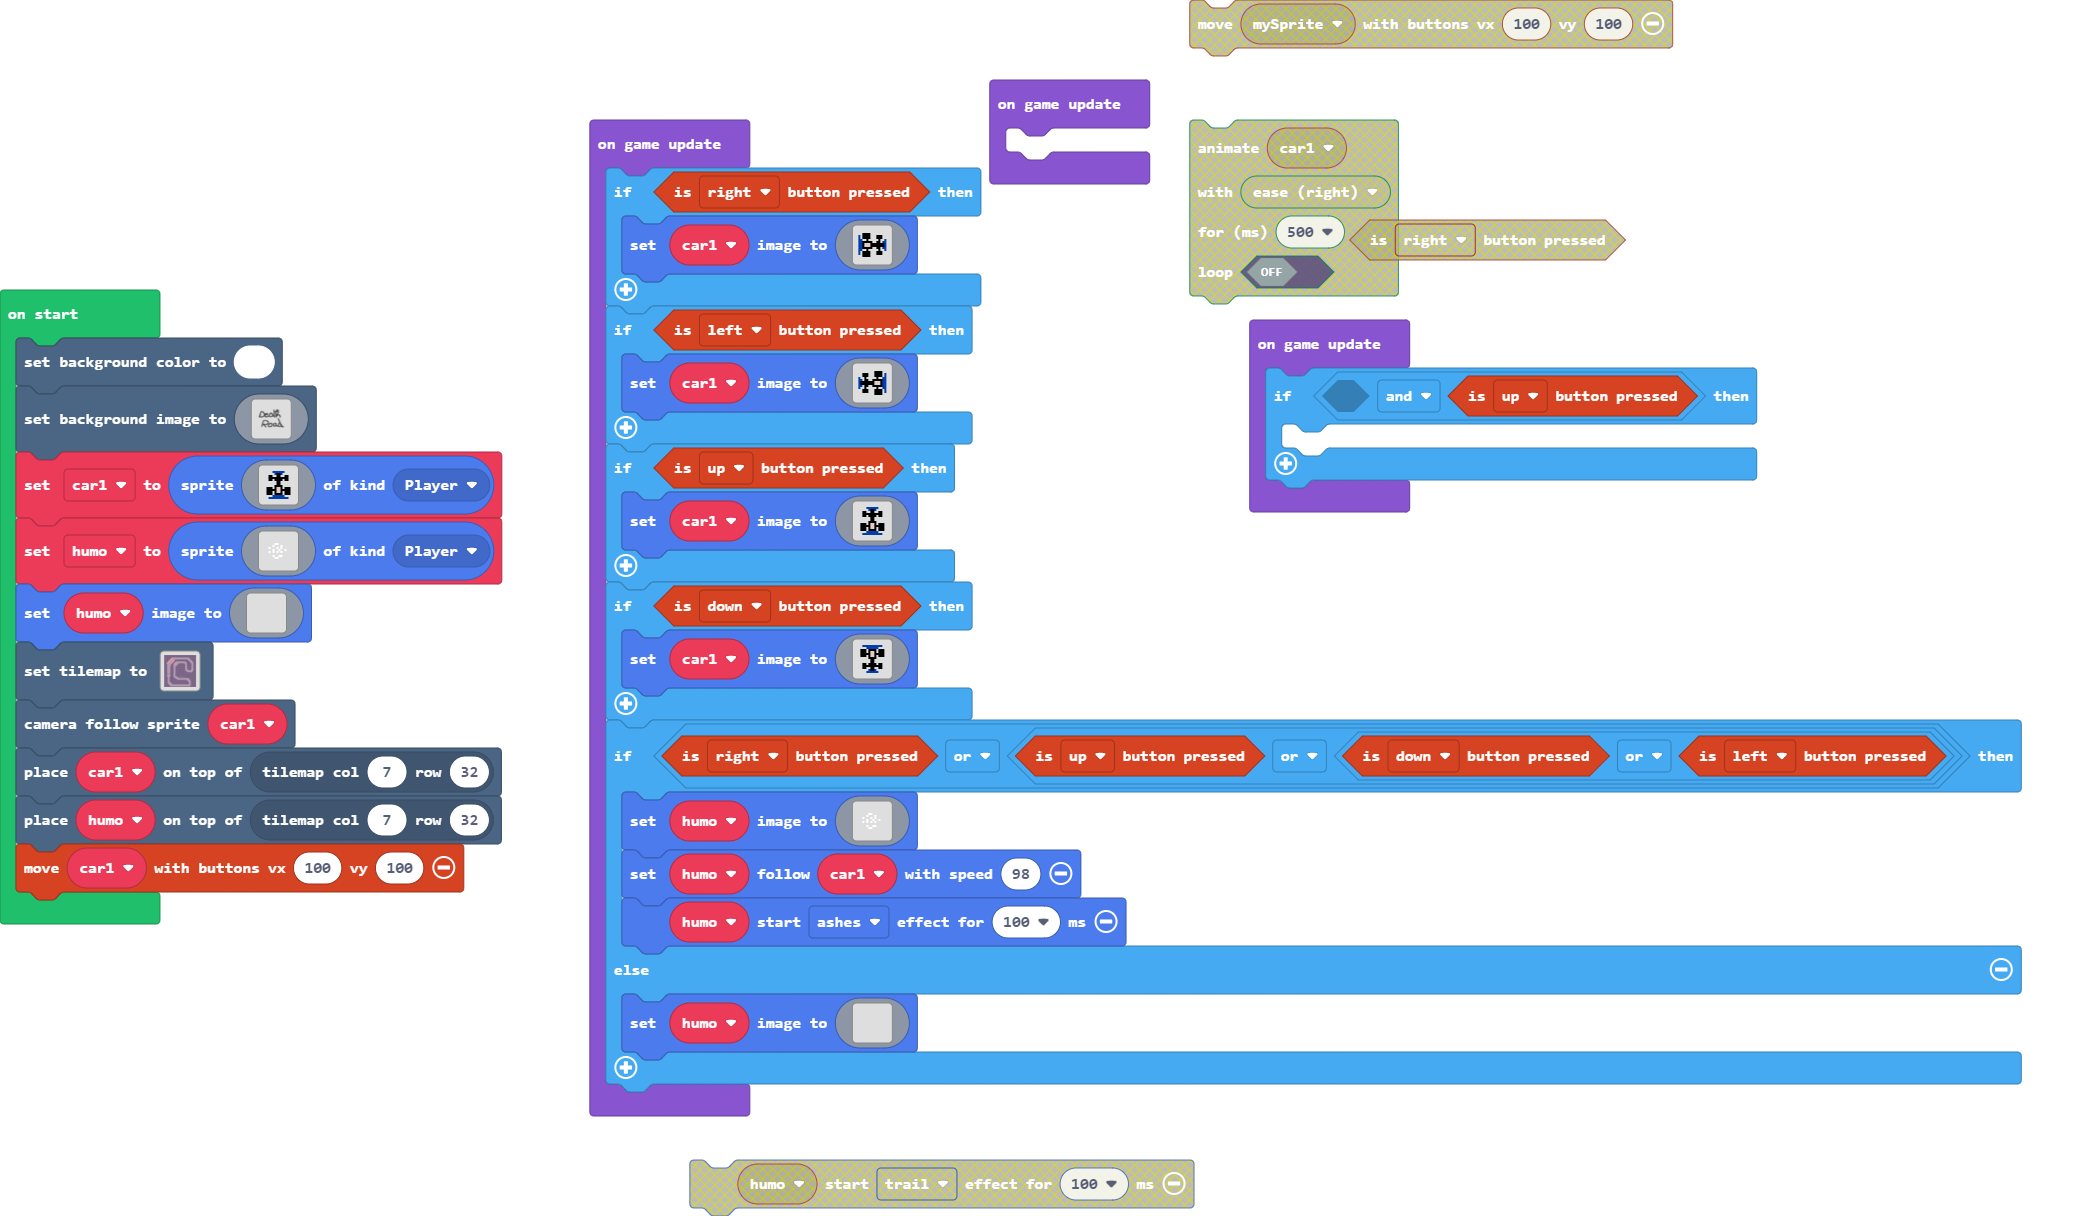
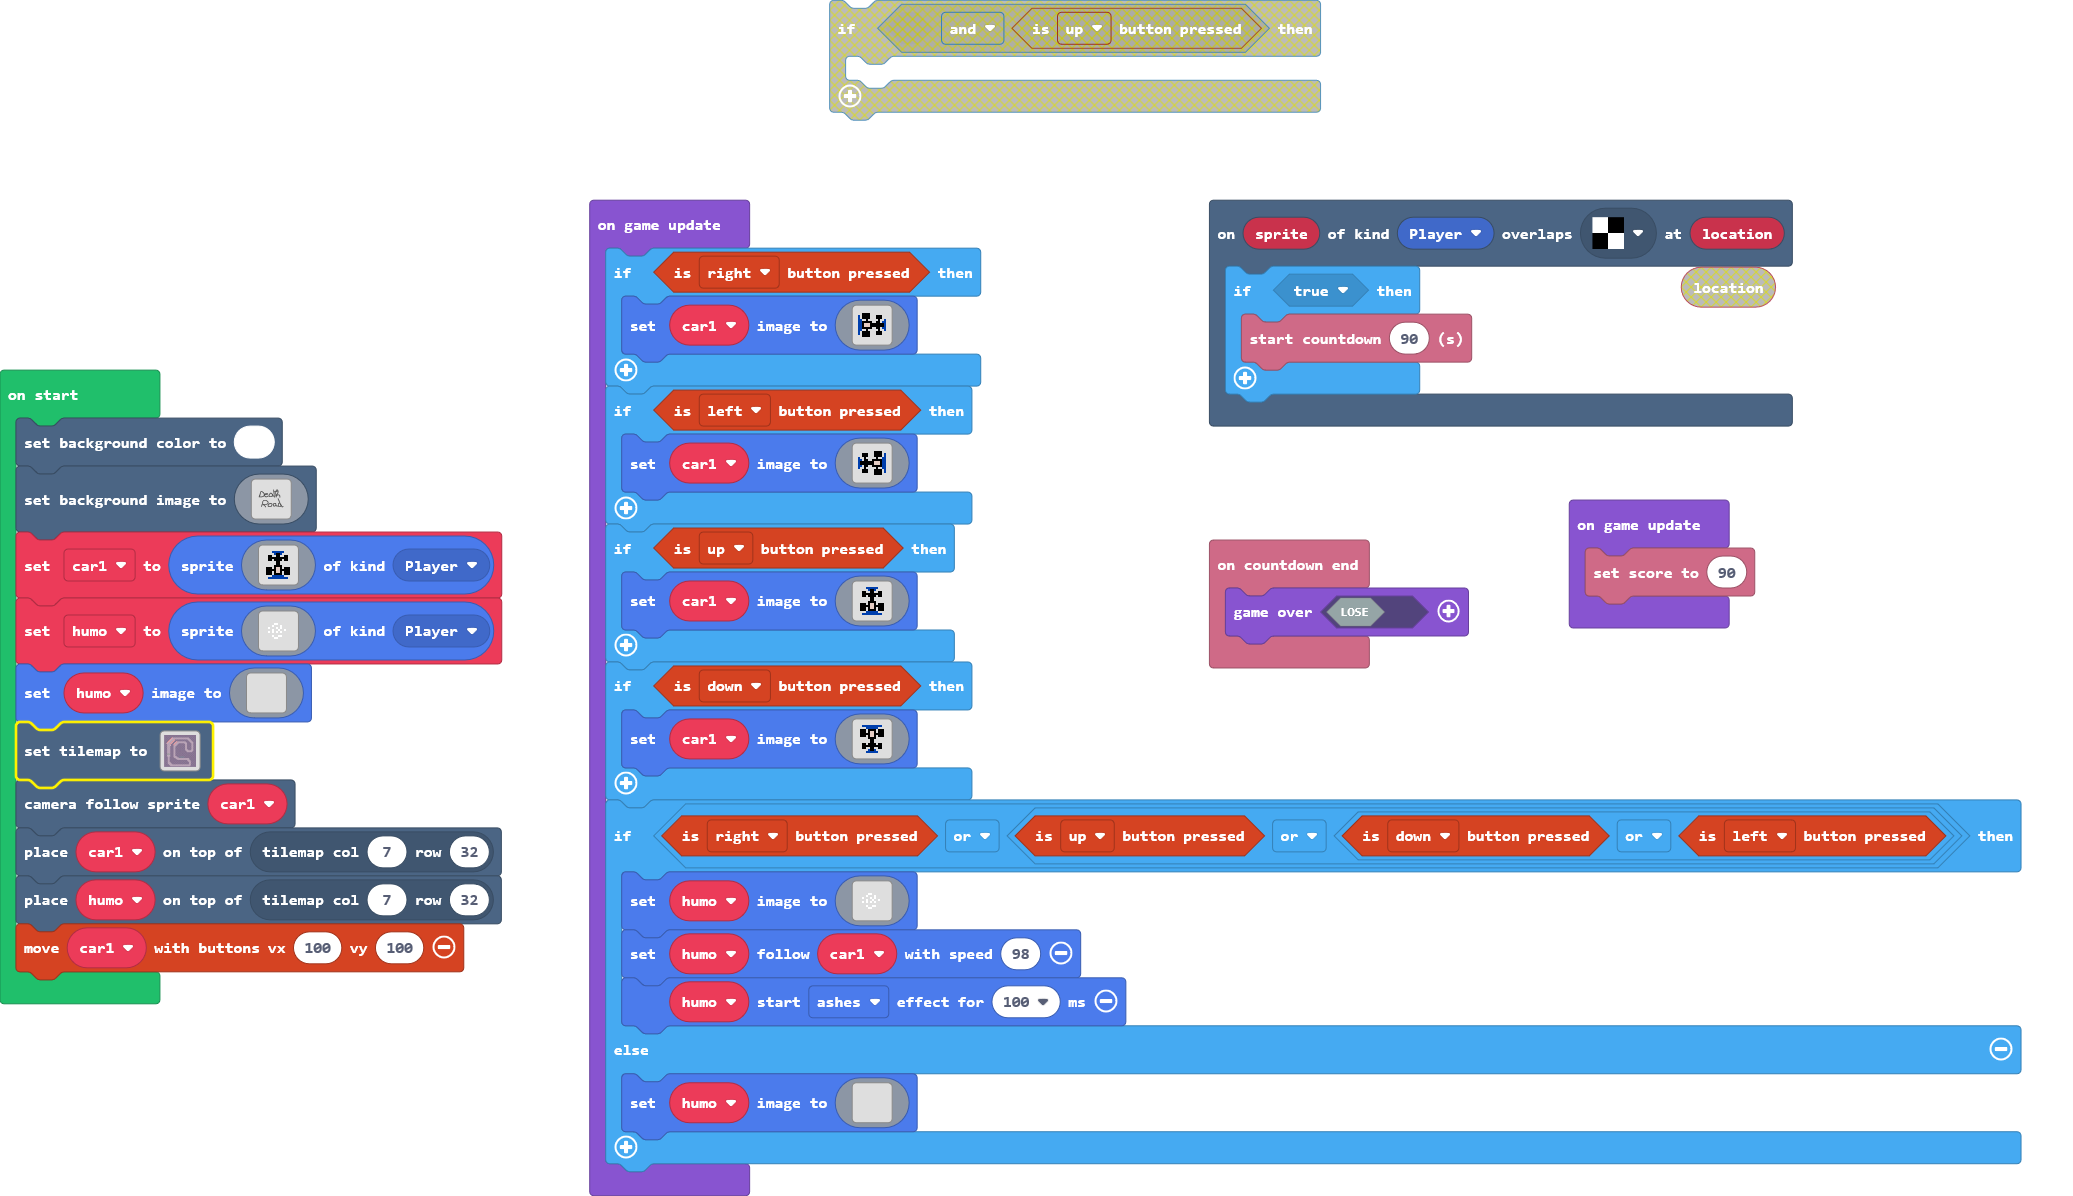
Update main.blocks, main.ts, tilemap.g.jres, tilemap.g.ts

diff --git a/tilemap.g.ts b/tilemap.g.ts
@@ -71,7 +71,7 @@ namespace myTiles {
 . . . . . . . . . . . . . . . . 
 . . . . . . . . . . . . . . . . 
 `, [myTiles.transparency16], TileScale.Sixteen);
-            case "level0":
+            case "track 1":
[1 lines of base64/hex data omitted]
 ..................................................
 ..................................................

diff --git a/main.ts b/main.ts
@@ -1,16 +1,21 @@
+info.onCountdownEnd(function () {
+    game.over(false)
+})
+scene.onOverlapTile(SpriteKind.Player, assets.tile`finish`, function (sprite, location) {
+    if (true) {
+        info.startCountdown(90)
+    }
+})
 scene.setBackgroundColor(1)
 scene.setBackgroundImage(assets.image`Menu`)
 let car1 = sprites.create(assets.image`car0`, SpriteKind.Player)
 let humo = sprites.create(assets.image`humo1`, SpriteKind.Player)
 humo.setImage(assets.image`vacio`)
-tiles.setTilemap(tilemap`level0`)
+tiles.setTilemap(tilemap`track 1`)
 scene.cameraFollowSprite(car1)
 tiles.placeOnTile(car1, tiles.getTileLocation(7, 32))
 tiles.placeOnTile(humo, tiles.getTileLocation(7, 32))
 controller.moveSprite(car1, 100, 100)
-game.onUpdate(function () {
-	
-})
 game.onUpdate(function () {
     if (controller.right.isPressed()) {
         car1.setImage(assets.image`car1`)
@@ -33,7 +38,5 @@ game.onUpdate(function () {
     }
 })
 game.onUpdate(function () {
-    if (false && controller.up.isPressed()) {
-    	
-    }
+    info.setScore(90)
 })
